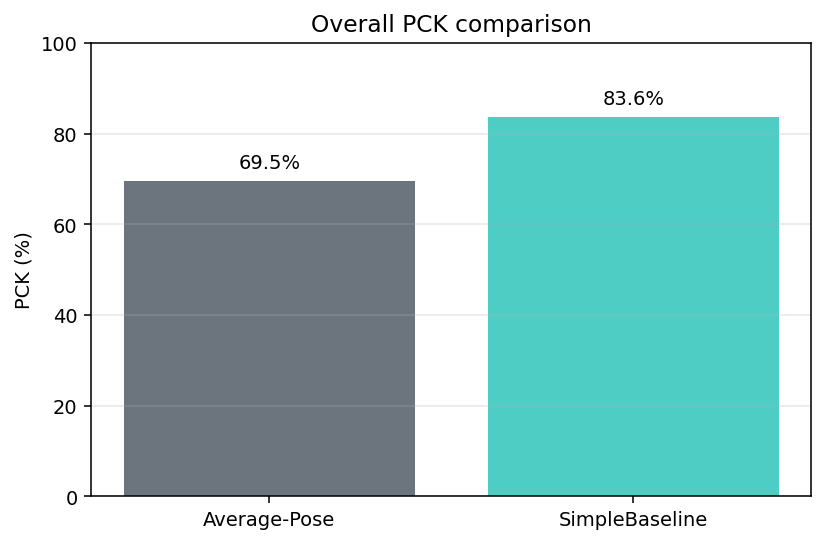
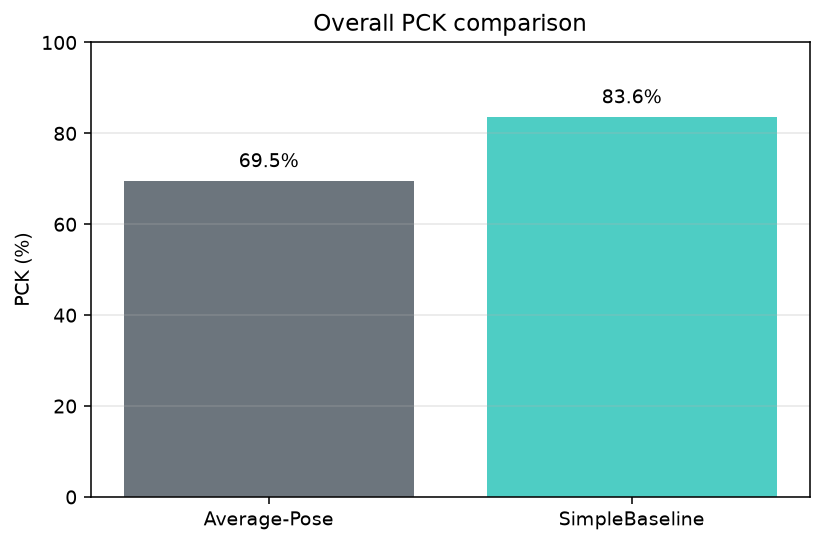
Fix report loss figure filename

diff --git a/scripts/make_report_figures.py b/scripts/make_report_figures.py
@@ -154,7 +154,7 @@ def _make_loss_figure(
             destination,
             unfreeze_epoch=int(config["training"]["unfreeze_epoch"]),
         )
-    else:
+    elif source_path.resolve() != destination.resolve():
         shutil.copy2(source_path, destination)
 
 
